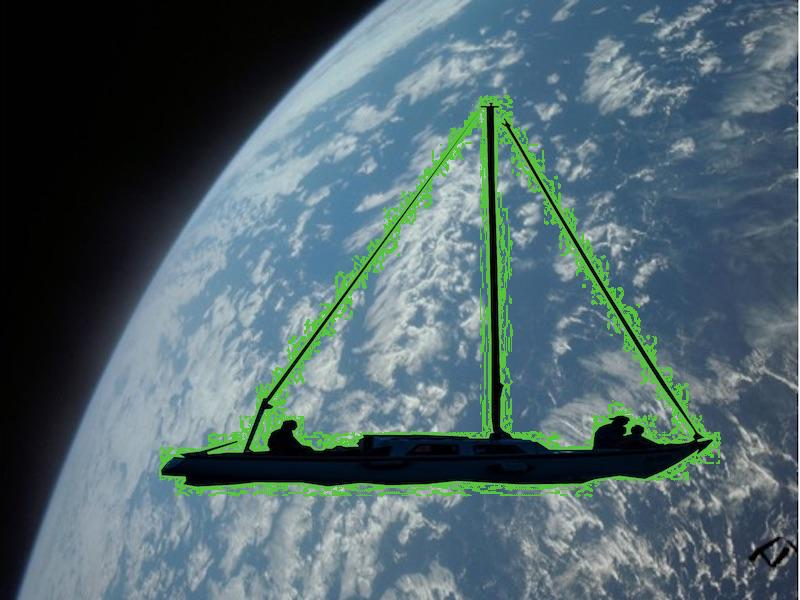
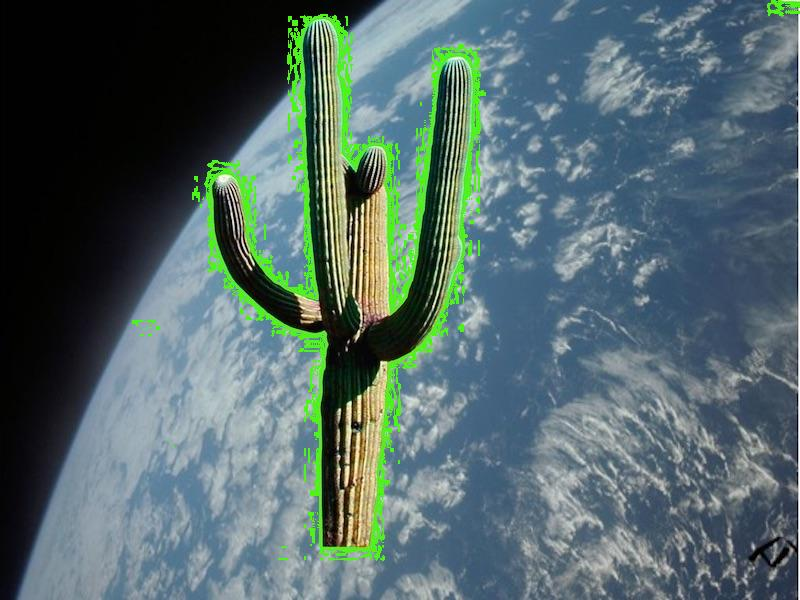
practicing for loops

Changed region(s): [[0.1875, 0.0, 0.9062, 0.96], [0.1562, 0.51, 0.2188, 0.57], [0.9375, 0.0, 1.0, 0.03]]

diff --git a/cse110/074green_image.py b/cse110/074green_image.py
@@ -62,7 +62,7 @@ new_image.show()
 new_image.save("./my_random_image.jpg")
 
 #Load the green and background image
-green_image_original = Image.open("./cse110_images/boat.jpg")
+green_image_original = Image.open("./cse110_images/cactus.jpg")
 green_pixels_image = green_image_original.load()
 
 background_original = Image.open("./cse110_images/earth.jpg")

diff --git a/cse110/081forloops.py b/cse110/081forloops.py
@@ -1,0 +1,18 @@
+"""
+File: 081forloops.py
+Author: Caio Sa
+
+Purpose: Practice using for loops.
+"""
+
+colors = ["red", "blue", "green", "yellow"]
+
+for color in colors:
+    print(color)
+
+for number in range(1,9):
+    print(number)
+
+for num in range(2,21,2):
+    print(num)
+
